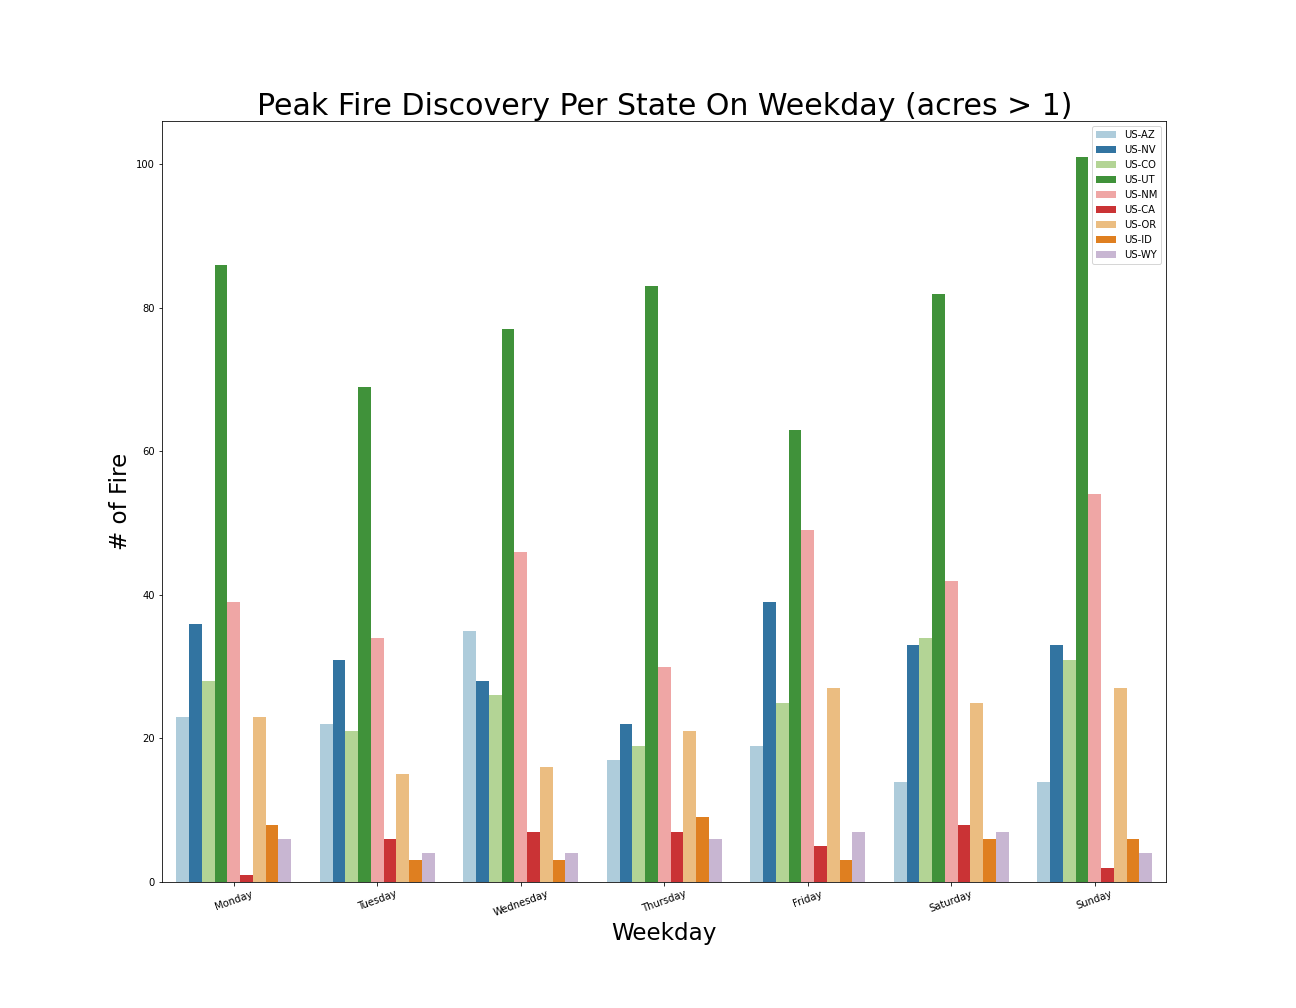
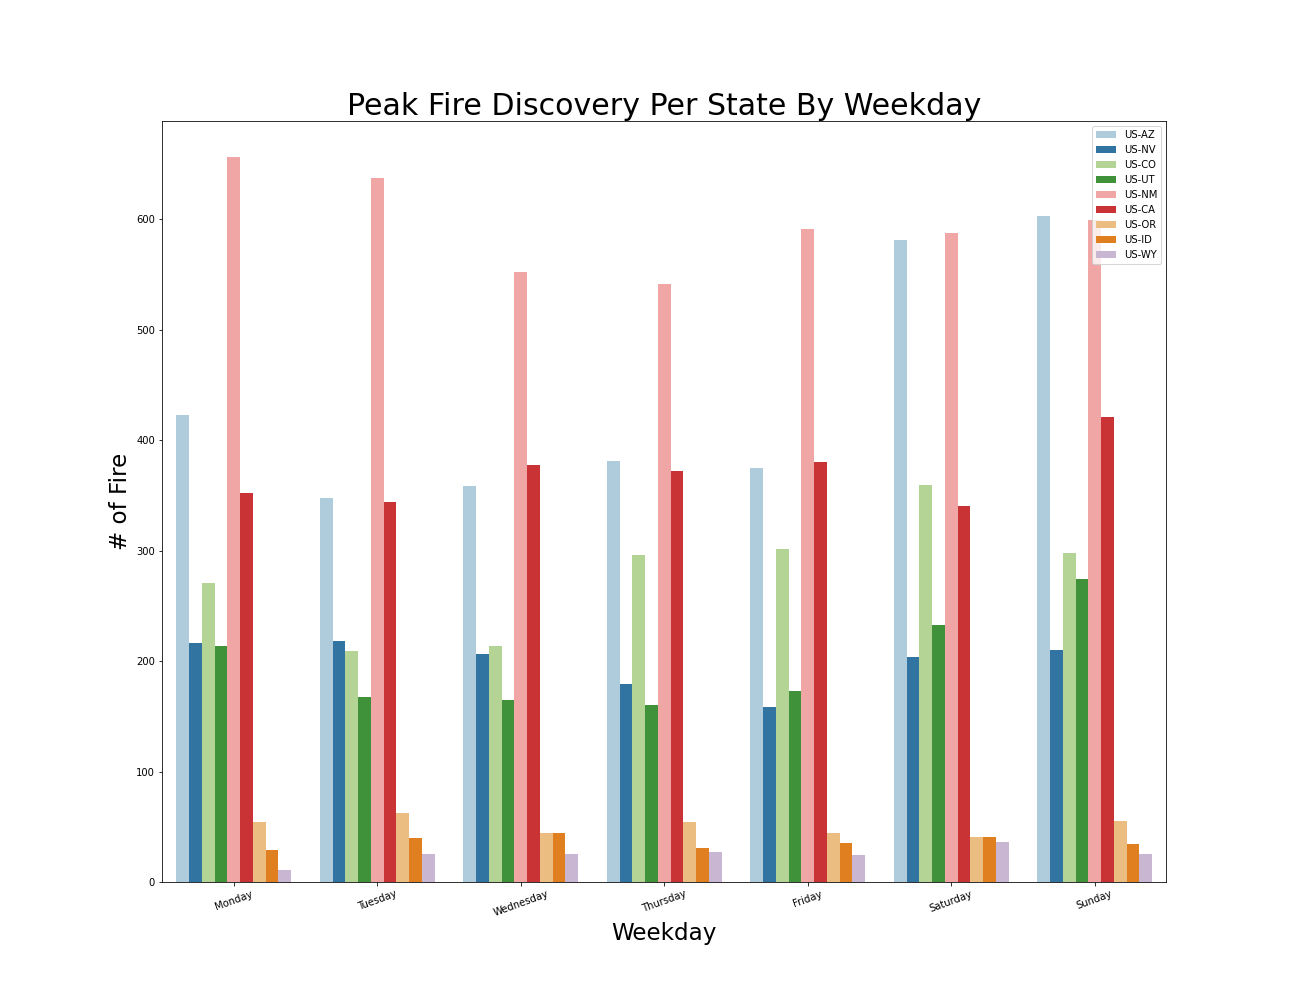
Update Readme with visuals

diff --git a/README.md b/README.md
@@ -1,8 +1,8 @@
-# Project 1: Reddit: Web API & NLP
+# Project 4: Wild Fire Analysis
 
 
 ## Table of Contents
-- [Project 1: Reddit: Web API \& NLP](#project-1-reddit-web-api--nlp)
+- [Project 4: Wild Fire Analysis](#project-4-wild-fire-analysis)
   - [Table of Contents](#table-of-contents)
   - [Overview](#overview)
   - [Problem-Statement](#problem-statement)
@@ -113,10 +113,65 @@ Data Analysis has been conducted using following libraries:
 
 ### Overall Data Analysis
 
-![Price Distribution](./presentation/charts/models_performance.png)
-Model `performance` comparison to determine which model should be picked for modeling
+![](./public/visuals/fire_by_year.png)
+![](./public/visuals/big_fire_by_year.png)
+> Dataset we have mainly includes fire datasets from 3 years and 2022 when amount of fires has peaked between these years. Next I want to see what it looks like per month
 
 
+![](./public/visuals/fire_by_month.png)
+![](./public/visuals/big_fire_by_month.png)
+> Charts show highest peak is between april and september. Next is interesting to look at which day of the week has most fires accrued for peak months
+
+
+![](./public/visuals/peak_fire_by_weekday.png)
+![](./public/visuals/peak_big_fire_by_weekday.png)
+> Chart shows that fires started regardless of day of the week. Next is interesting to look at what caused the fire during peak fire months
+
+![](./public/visuals/peak_fire_cause_by_weekday.png)
+![](./public/visuals/peak_big_fire_by_weekday.png)
+> Natural cause of fire dominates during weekday and human cause peaks during weekend which makes sense since more people go camping and increase the risk
+
+![](./public/visuals/slow_fire_by_weekday.png)
+![](./public/visuals/slow_big_fire_by_weekday.png)
+> During slow fire season natural causes dominates across the board. Next it is interesting to find what is common conditions for peak fire.
+
+![](./public/visuals/fire_by_state_per_weekday.png)
+![](./public/visuals/big_fire_by_state_per_weekday.png)
+
+![](./public/visuals/fire_max_temp_by_state.png)
+![](./public/visuals/big_fire_max_temp_by_state.png)
+
+
+![](./public/visuals/fire_humidity_by_state.png)
+![](./public/visuals/big_fire_humidity_by_state.png)
+
+
+![](./public/visuals/fire_wind_speed_by_state.png)
+![](./public/visuals/big_fire_wind_speed_by_state.png)
+
+
+![](./public/visuals/fire_rain_by_state.png)
+![](./public/visuals/big_fire_rain_by_state.png)
+
+
+![](./public/visuals/fire_snow_rain_by_state.png)
+![](./public/visuals/big_fire_snow_rain_by_state.png)
+
+
+![](./public/visuals/fire_time_control_by_state.png)
+![](./public/visuals/big_fire_time_control_by_state.png)
+
+
+![](./public/visuals/fire_acres_by_state.png)
+![](./public/visuals/big_fire_acres_by_state.png)
+
+
+![](./public/visuals/wildfire_all_locations.png)
+![](./public/visuals/wildfire_all_size_vs_duration.png)
+
+
+![](./public/visuals/wildfire_filtered_locations.png)
+![](./public/visuals/wildfire_filtered_size_vs_duration.png)
 
 ----
 ## Conclusion & Recommendation
